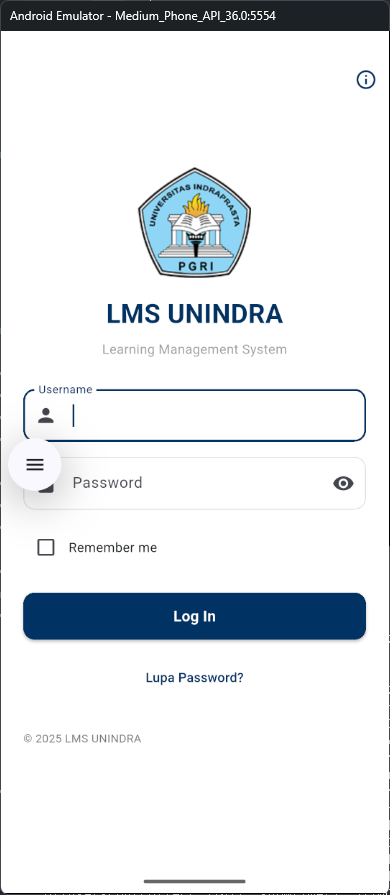
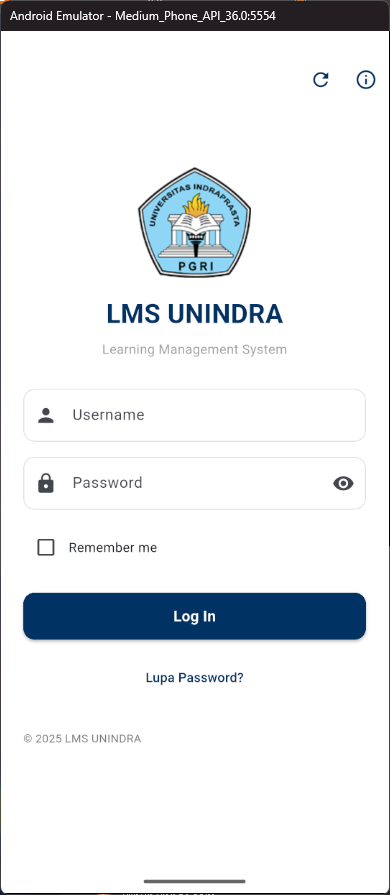
fix: update about dialog in login screen to match dashboard layout

diff --git a/lib/screens/login_screen.dart b/lib/screens/login_screen.dart
@@ -243,12 +243,14 @@ class _LoginScreenState extends State<LoginScreen> {
               ),
               const SizedBox(height: 16),
               _buildLinkButton(
+                context,
                 icon: Icons.code,
                 label: 'GitHub',
                 url: 'https://github.com/TobyG74',
               ),
               const SizedBox(height: 8),
               _buildLinkButton(
+                context,
                 icon: Icons.camera_alt,
                 label: 'Instagram',
                 url: 'https://instagram.com/ini.tobz',
@@ -291,21 +293,57 @@ class _LoginScreenState extends State<LoginScreen> {
                     ),
                     const SizedBox(height: 4),
                     _buildLinkButton(
+                      context,
                       icon: Icons.camera_alt,
-                      label: '@siorxplane',
+                      label: 'Instagram',
                       url: 'https://instagram.com/siorxplane',
                       compact: true,
                     ),
-                    const SizedBox(height: 12),
+                  ],
+                ),
+              ),
+              const SizedBox(height: 16),
+              const Divider(),
+              const SizedBox(height: 12),
+              Row(
+                children: [
+                  Icon(Icons.code, size: 16, color: Colors.orange.shade700),
+                  const SizedBox(width: 8),
+                  const Expanded(
+                    child: Text(
+                      'Kontributor Fitur',
+                      style: TextStyle(
+                        fontSize: 14,
+                        fontWeight: FontWeight.w500,
+                      ),
+                    ),
+                  ),
+                ],
+              ),
+              const SizedBox(height: 8),
+              Padding(
+                padding: const EdgeInsets.only(left: 24),
+                child: Column(
+                  crossAxisAlignment: CrossAxisAlignment.start,
+                  children: [
                     const Text(
                       '• Ahmad Dandi Subhani',
                       style: TextStyle(fontSize: 14),
                     ),
                     const SizedBox(height: 4),
+                    Text(
+                      'Fitur Cari Dosen (Data & API)',
+                      style: TextStyle(
+                        fontSize: 12,
+                        color: Colors.grey[600],
+                      ),
+                    ),
+                    const SizedBox(height: 4),
                     _buildLinkButton(
-                      icon: Icons.camera_alt,
-                      label: '@dandisubhani_',
-                      url: 'https://instagram.com/dandisubhani_',
+                      context,
+                      icon: Icons.code,
+                      label: 'GitHub',
+                      url: 'https://github.com/dandiedutech',
                       compact: true,
                     ),
                   ],
@@ -324,7 +362,8 @@ class _LoginScreenState extends State<LoginScreen> {
     );
   }
 
-  Widget _buildLinkButton({
+  Widget _buildLinkButton(
+    BuildContext context, {
     required IconData icon,
     required String label,
     required String url,
@@ -387,6 +426,11 @@ class _LoginScreenState extends State<LoginScreen> {
         elevation: 0,
         actions: [
           IconButton(
+            icon: const Icon(Icons.refresh, color: Color(0xFF073163)),
+            onPressed: _isLoading ? null : _loadLoginData,
+            tooltip: 'Refresh',
+          ),
+          IconButton(
             icon: const Icon(Icons.info_outline, color: Color(0xFF073163)),
             onPressed: _showAboutDialog,
             tooltip: 'Tentang Aplikasi',
@@ -395,13 +439,77 @@ class _LoginScreenState extends State<LoginScreen> {
       ),
       body: SafeArea(
         child: _isLoading && _loginFormData == null
-            ? const Center(
-                child: SpinKitFadingCircle(
-                  color: Color(0xFF073163),
-                  size: 50.0,
+            ? Center(
+                child: Column(
+                  mainAxisAlignment: MainAxisAlignment.center,
+                  children: [
+                    const SpinKitFadingCircle(
+                      color: Color(0xFF073163),
+                      size: 50.0,
+                    ),
+                    const SizedBox(height: 16),
+                    Text(
+                      'Memuat halaman login...',
+                      style: TextStyle(
+                        color: Colors.grey.shade600,
+                        fontSize: 14,
+                      ),
+                    ),
+                  ],
                 ),
               )
-            : SingleChildScrollView(
+            : _errorMessage != null && _loginFormData == null
+                ? Center(
+                    child: Padding(
+                      padding: const EdgeInsets.all(24),
+                      child: Column(
+                        mainAxisAlignment: MainAxisAlignment.center,
+                        children: [
+                          Icon(
+                            Icons.error_outline,
+                            size: 64,
+                            color: Colors.red.shade400,
+                          ),
+                          const SizedBox(height: 16),
+                          Text(
+                            'Gagal Memuat',
+                            style: TextStyle(
+                              fontSize: 20,
+                              fontWeight: FontWeight.bold,
+                              color: Colors.grey.shade800,
+                            ),
+                          ),
+                          const SizedBox(height: 8),
+                          Text(
+                            _errorMessage!,
+                            textAlign: TextAlign.center,
+                            style: TextStyle(
+                              color: Colors.grey.shade600,
+                              fontSize: 14,
+                            ),
+                          ),
+                          const SizedBox(height: 24),
+                          ElevatedButton.icon(
+                            onPressed: _loadLoginData,
+                            icon: const Icon(Icons.refresh),
+                            label: const Text('Coba Lagi'),
+                            style: ElevatedButton.styleFrom(
+                              backgroundColor: const Color(0xFF073163),
+                              foregroundColor: Colors.white,
+                              padding: const EdgeInsets.symmetric(
+                                horizontal: 32,
+                                vertical: 12,
+                              ),
+                              shape: RoundedRectangleBorder(
+                                borderRadius: BorderRadius.circular(12),
+                              ),
+                            ),
+                          ),
+                        ],
+                      ),
+                    ),
+                  )
+                : SingleChildScrollView(
                 padding: const EdgeInsets.all(24.0),
                 child: Form(
                   key: _formKey,
